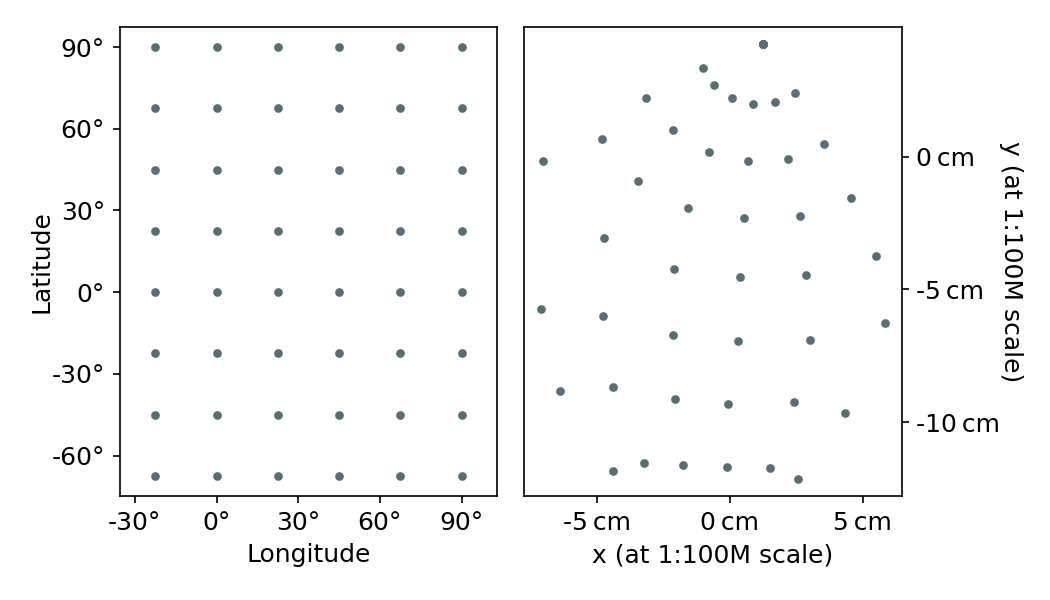
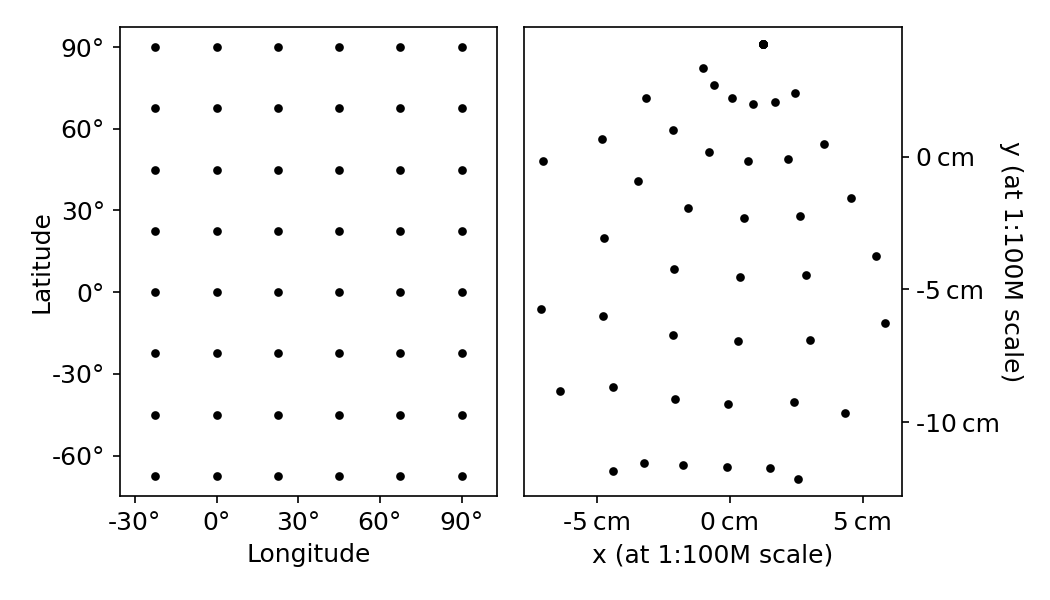
putting the pieces together
I made the diagrams where multiple sections are shown together

diff --git a/src/draw_diagrams.py b/src/draw_diagrams.py
@@ -29,38 +29,59 @@ def draw_diagrams():
 	# then draw the diagrams using that new coarse projection
 	mesh = load_mesh("elastic-earth-I")
 	mesh.nodes /= 1e3  # scale down to a realistic map size and change km to cm
+	section_index = 0
 
 	fig, (ax_left, ax_right) = plt.subplots(1, 2, figsize=(7, 4))
 	plot_projection_domains(
-		ax_left, ax_right, mesh, 0,
-		nodes=True, border=False, shading=False, graticule=False, coastlines=False)
+		ax_left, ax_right, mesh, section_index, color="k",
+		nodes=True, boundary=False, shading=False, graticule=False, coastlines=False)
 	plt.savefig("../resources/diagram-1.png", dpi=150)
 
 	fig, (ax_left, ax_right) = plt.subplots(1, 2, figsize=(7, 4))
 	plot_projection_domains(
-		ax_left, ax_right, mesh, 0,
-		nodes=True, border=False, shading=True, graticule=True, coastlines=True)
+		ax_left, ax_right, mesh, section_index, color="k",
+		nodes=True, boundary=False, shading=True, graticule=True, coastlines=True)
 	plt.savefig("../resources/diagram-2.png", dpi=150)
+
+	fig, ax = plt.subplots(1, 1, figsize=(7, 4))
+	for index, color in enumerate(["#183157", "#2D4726", "#803D44"]):
+		draw_section(ax, mesh, index, color,
+		             nodes=True, boundary=False, shading=True, graticule=True, coastlines=True)
+	ax_right.set_xlabel("x (at 1:100M scale)")
+	ax_right.set_ylabel("y (at 1:100M scale)", labelpad=11, rotation=-90)
+	set_ticks(ax_right, spacing=5, fmt="{x:.0f} cm", y_ticks_on_right=True)
+	plt.savefig("../resources/diagram-3.png", dpi=150)
 
 	fig, (ax_left, ax_right) = plt.subplots(1, 2, figsize=(7, 4))
 	plot_projection_domains(
-		ax_left, ax_right, mesh, 0,
-		nodes=True, border=True, shading=True, graticule=True, coastlines=True)
+		ax_left, ax_right, mesh, section_index, color="k",
+		nodes=True, boundary=True, shading=True, graticule=True, coastlines=True)
 	plt.savefig("../resources/diagram-4.png", dpi=150)
+
+	fig, ax = plt.subplots(1, 1, figsize=(7, 4))
+	for index, color in enumerate(["#183157", "#2D4726", "#803D44"]):
+		draw_section(ax, mesh, index, color,
+		             nodes=True, boundary=True, shading=True, graticule=True, coastlines=True)
+	ax_right.set_xlabel("x (at 1:100M scale)")
+	ax_right.set_ylabel("y (at 1:100M scale)", labelpad=11, rotation=-90)
+	set_ticks(ax_right, spacing=5, fmt="{x:.0f} cm", y_ticks_on_right=True)
+	plt.savefig("../resources/diagram-5.png", dpi=150)
 
 	plt.show()
 
 
 def plot_projection_domains(ax_left: Axes, ax_right: Axes,
-                            elastic_earth_mesh: Mesh, section_index: int,
-                            nodes: bool, border: bool, shading: bool,
+                            elastic_earth_mesh: Mesh, section_index: int, color: str,
+                            nodes: bool, boundary: bool, shading: bool,
                             graticule: bool, coastlines: bool) -> None:
 	equirectangular_mesh = equirectangular_like(elastic_earth_mesh)
-	draw_section(ax_left, equirectangular_mesh, section_index, nodes, border, shading, graticule, coastlines)
+	draw_section(ax_left, equirectangular_mesh, section_index, color,
+	             nodes, boundary, shading, graticule, coastlines)
 	ax_left.set_xlabel("Longitude")
 	ax_left.set_ylabel("Latitude", labelpad=-1)
 	set_ticks(ax_left, spacing=30, fmt="{x:.0f}°")
-	draw_section(ax_right, elastic_earth_mesh, section_index, nodes, border, shading, graticule, coastlines)
+	draw_section(ax_right, elastic_earth_mesh, section_index, color,
+	             nodes, boundary, shading, graticule, coastlines)
 	ax_right.set_xlabel("x (at 1:100M scale)")
 	ax_right.set_ylabel("y (at 1:100M scale)", labelpad=11, rotation=-90)
 	set_ticks(ax_right, spacing=5, fmt="{x:.0f} cm", y_ticks_on_right=True)
@@ -68,12 +89,12 @@ def plot_projection_domains(ax_left: Axes, ax_right: Axes,
 
 
 
-def draw_section(ax: Axes, mesh: Mesh, section_index: int,
-                 nodes: bool, border: bool, shading: bool,
+def draw_section(ax: Axes, mesh: Mesh, section_index: int, color: str,
+                 nodes: bool, boundary: bool, shading: bool,
                  graticule: bool, coastlines: bool) -> None:
 	if nodes:
 		ax.scatter(mesh.nodes[section_index, :, :, 0], mesh.nodes[section_index, :, :, 1],
-		           color="#596d74", s=10, zorder=10)
+		           color=color, s=10, zorder=10)
 	if graticule:
 		for nodes in [mesh.nodes[section_index], mesh.nodes[section_index].transpose((1, 0, 2))]:
 			for weit in np.linspace(0, 1, 3, endpoint=False):
@@ -83,7 +104,7 @@ def draw_section(ax: Axes, mesh: Mesh, section_index: int,
 				else:
 					weited_nodes = nodes[:, j, :]
 				ax.plot(weited_nodes[:, :, 0], weited_nodes[:, :, 1],
-				        color="#596d74", linewidth=0.8, zorder=10)
+				        color=color, linewidth=0.5, zorder=10)
 	if coastlines:
 		project = RegularGridInterpolator([mesh.ф, mesh.λ], mesh.nodes[section_index, :, :, :],
 		                                  bounds_error=False, fill_value=nan)
@@ -91,7 +112,7 @@ def draw_section(ax: Axes, mesh: Mesh, section_index: int,
 		for line in coastlines:
 			projected_line = project(line)
 			ax.plot(projected_line[:, 0], projected_line[:, 1],
-			        "k", linewidth=1.2, zorder=20)
+			        color, linewidth=1.0, zorder=20)
 	ax.axis("equal")
 
 
